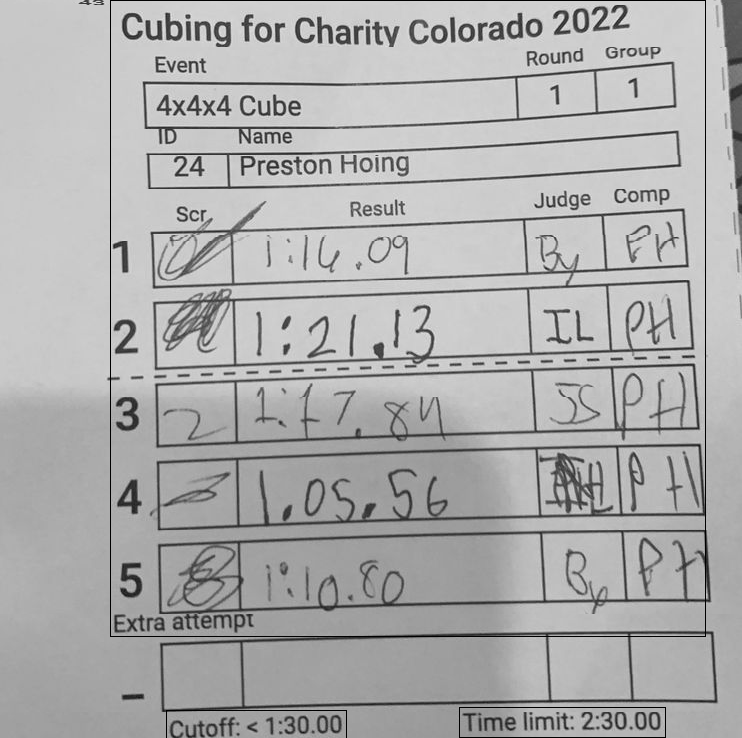
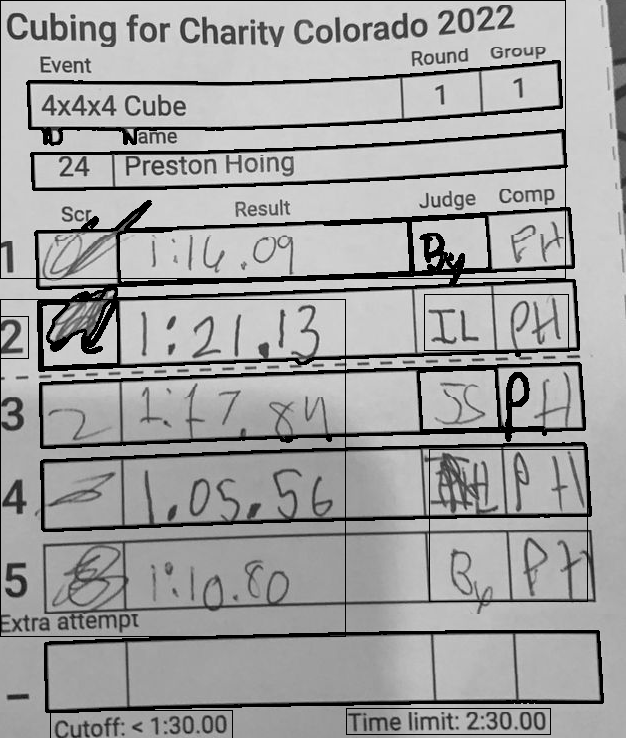
Added trimming/cropping on both X and Y axis

Changed region(s): [[0.0, 0.0, 1.0, 1.0]]

diff --git a/cameraDetection.py b/cameraDetection.py
@@ -5,17 +5,16 @@ import cv2
 import easyocr
 import numpy as np
 
-
-
 def processData(frame):
     frame = cv2.cvtColor(frame, cv2.COLOR_BGR2GRAY)
     blackLines = []
     blackLineThreshold = 5
 
+    #Y trimming
     for i in range(len(frame)):
         blackLineCurrent = 0
         for j in range(len(frame[i])):
-            if frame[i][j] < 75: #50 = dark gray
+            if frame[i][j] < 75: #75 = dark gray
                 blackLineCurrent += 1 
 
         if blackLineCurrent > blackLineThreshold:
@@ -26,8 +25,38 @@ def processData(frame):
     for i in range(len(blackLines)):
         newFrame.append(frame[blackLines[i]])
 
+    frame = newFrame
+
+    #X trimming
+    blackLines = []
+    for i in range(len(frame[0])):
+        blackLineCurrent = 0
+        for j in range(len(frame)):
+            if frame[j][i] < 75:
+                blackLineCurrent += 1 
+
+        if blackLineCurrent > blackLineThreshold:
+            blackLines.append(i)
+            #frame = cv2.line(frame, (i, 0), (i, len(frame[0])), (0, 0, 255), thickness=1)
+    
+    #cv2.imwrite('userTakenImage.png', frame)
+    
+    newFrame = []
+    for i in range(len(frame)):
+        newFrame.append(frame[i][min(blackLines):max(blackLines)])
+    
     newFrame = np.array(newFrame)
     
+    edged = cv2.Canny(newFrame, 30, 200)
+    
+    contours, hierarchy = cv2.findContours(edged, 
+        cv2.RETR_EXTERNAL, cv2.CHAIN_APPROX_NONE)
+
+    for contour in contours:
+        x,y,w,h = cv2.boundingRect(contour)
+        if cv2.contourArea(contour) > 1500 and w > 500:
+            cv2.drawContours(newFrame, [contour], 0, (0, 255, 0), 2)
+
     cv2.imwrite('userTakenImage.png', newFrame)
 
     return newFrame
